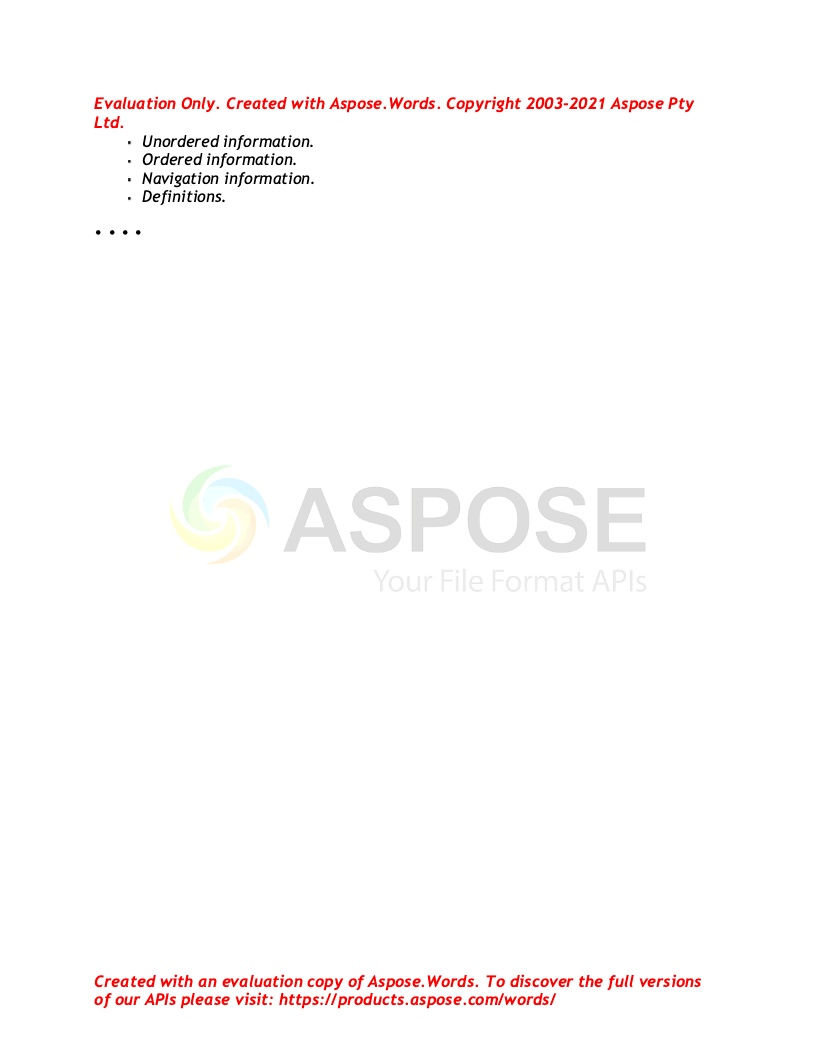
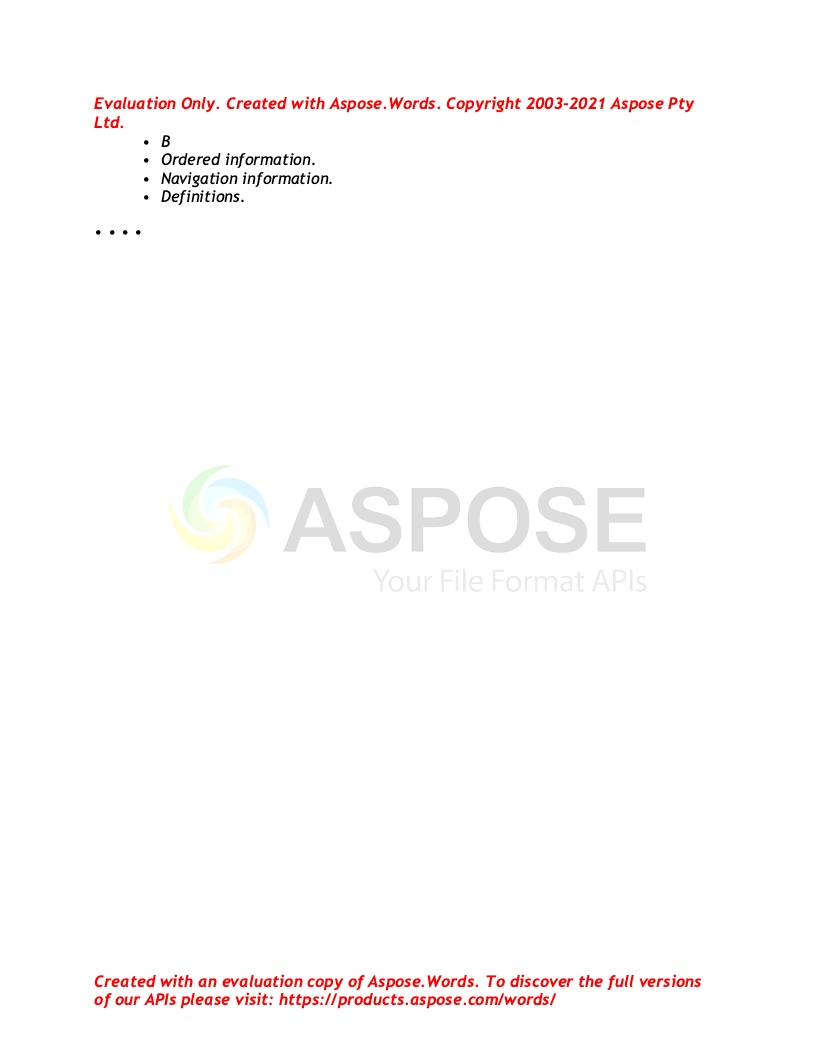
Use CSS entity for bullet - BB

Changed region(s): [[0.1532, 0.125, 0.3983, 0.1875]]

diff --git a/output/output.html b/output/output.html
@@ -1,1 +1,1 @@
-<html><head><meta http-equiv="Content-Type" content="text/html; charset=utf-8" /><meta http-equiv="Content-Style-Type" content="text/css" /><meta name="generator" content="Aspose.Words for .NET 21.2.0" /><title></title></head><body style="font-family:'Trebuchet MS'; font-size:12pt; font-style:italic"><div><div style="-aw-headerfooter-type:header-primary; clear:both"><p style="margin-top:0pt; margin-bottom:0pt"><span style="height:0pt; display:block; position:absolute; z-index:-65536"><img src="output.001.png" width="628" height="341" alt="" style="margin-top:232.8pt; -aw-left-pos:0pt; -aw-rel-hpos:margin; -aw-rel-vpos:margin; -aw-top-pos:0pt; -aw-wrap-type:none; position:absolute" /></span><img src="output.002.png" width="627" height="341" alt="" style="margin-left:0pt; -aw-left-pos:0pt; -aw-rel-hpos:margin; -aw-rel-vpos:margin; -aw-top-pos:0pt; -aw-wrap-type:none; position:absolute; z-index:0" /><span style="-aw-import:ignore">&#xa0;</span></p></div><p style="margin-top:0pt; margin-bottom:0pt"><span style="font-weight:bold; color:#ff0000">Evaluation Only. Created with Aspose.Words. Copyright 2003-2021 Aspose Pty Ltd.</span></p><ul style="margin:0pt; padding-left:0pt; list-style-image:url('output.003.png')"><li style="margin-left:36pt; padding-left:0pt; font-family:serif; font-size:6pt; font-style:normal; -aw-font-family:'Symbol'; -aw-font-weight:normal; -aw-number-format:''"><span style="font-family:'Trebuchet MS'; font-size:12pt; font-style:italic">Unordered information.</span></li><li style="margin-left:36pt; padding-left:0pt; font-family:serif; font-size:6pt; font-style:normal; -aw-font-family:'Symbol'; -aw-font-weight:normal; -aw-number-format:''"><span style="font-family:'Trebuchet MS'; font-size:12pt; font-style:italic">Ordered information. </span></li><li style="margin-left:36pt; padding-left:0pt; font-family:serif; font-size:6pt; font-style:normal; -aw-font-family:'Symbol'; -aw-font-weight:normal; -aw-number-format:''"><span style="font-family:'Trebuchet MS'; font-size:12pt; font-style:italic">Navigation information. </span></li><li style="margin-left:36pt; margin-bottom:12pt; padding-left:0pt; font-family:serif; font-size:6pt; font-style:normal; -aw-font-family:'Symbol'; -aw-font-weight:normal; -aw-number-format:''"><span style="font-family:'Trebuchet MS'; font-size:12pt; font-style:italic">Definitions. </span></li></ul><p style="margin-top:12pt; margin-bottom:12pt"><span>• • • •</span></p><div style="-aw-headerfooter-type:footer-primary; clear:both"><p style="margin-top:0pt; margin-bottom:0pt"><span style="font-weight:bold; color:#ff0000">Created with an evaluation copy of Aspose.Words. To discover the full versions of our APIs please visit: https://products.aspose.com/words/</span></p></div></div></body></html>
+<html><head><meta http-equiv="Content-Type" content="text/html; charset=utf-8" /><meta http-equiv="Content-Style-Type" content="text/css" /><meta name="generator" content="Aspose.Words for .NET 21.2.0" /><title></title></head><body style="font-family:'Trebuchet MS'; font-size:12pt; font-style:italic"><div><div style="-aw-headerfooter-type:header-primary; clear:both"><p style="margin-top:0pt; margin-bottom:0pt"><span style="height:0pt; display:block; position:absolute; z-index:-65536"><img src="output.001.png" width="628" height="341" alt="" style="margin-top:232.8pt; -aw-left-pos:0pt; -aw-rel-hpos:margin; -aw-rel-vpos:margin; -aw-top-pos:0pt; -aw-wrap-type:none; position:absolute" /></span><img src="output.002.png" width="627" height="341" alt="" style="margin-left:0pt; -aw-left-pos:0pt; -aw-rel-hpos:margin; -aw-rel-vpos:margin; -aw-top-pos:0pt; -aw-wrap-type:none; position:absolute; z-index:0" /><span style="-aw-import:ignore">&#xa0;</span></p></div><p style="margin-top:0pt; margin-bottom:0pt"><span style="font-weight:bold; color:#ff0000">Evaluation Only. Created with Aspose.Words. Copyright 2003-2021 Aspose Pty Ltd.</span></p><p style="margin-top:0pt; margin-left:36pt; margin-bottom:0pt; -aw-import:list-item; -aw-list-level-number:0; -aw-list-number-format:'•'; -aw-list-number-styles:'bullet'; -aw-list-padding-sml:7.51pt"><span style="-aw-import:ignore"><span>•</span><span style="font:7pt 'Times New Roman'; -aw-import:spaces">&#xa0;&#xa0;&#xa0;&#xa0; </span></span><span>B</span></p><p style="margin-top:0pt; margin-left:36pt; margin-bottom:0pt; -aw-import:list-item; -aw-list-level-number:0; -aw-list-number-format:'•'; -aw-list-number-styles:'bullet'; -aw-list-padding-sml:7.51pt"><span style="-aw-import:ignore"><span>•</span><span style="font:7pt 'Times New Roman'; -aw-import:spaces">&#xa0;&#xa0;&#xa0;&#xa0; </span></span><span>Ordered information. </span></p><p style="margin-top:0pt; margin-left:36pt; margin-bottom:0pt; -aw-import:list-item; -aw-list-level-number:0; -aw-list-number-format:'•'; -aw-list-number-styles:'bullet'; -aw-list-padding-sml:7.51pt"><span style="-aw-import:ignore"><span>•</span><span style="font:7pt 'Times New Roman'; -aw-import:spaces">&#xa0;&#xa0;&#xa0;&#xa0; </span></span><span>Navigation information. </span></p><p style="margin-top:0pt; margin-left:36pt; margin-bottom:12pt; -aw-import:list-item; -aw-list-level-number:0; -aw-list-number-format:'•'; -aw-list-number-styles:'bullet'; -aw-list-padding-sml:7.51pt"><span style="-aw-import:ignore"><span>•</span><span style="font:7pt 'Times New Roman'; -aw-import:spaces">&#xa0;&#xa0;&#xa0;&#xa0; </span></span><span>Definitions. </span></p><p style="margin-top:12pt; margin-bottom:12pt"><span>• • • •</span></p><div style="-aw-headerfooter-type:footer-primary; clear:both"><p style="margin-top:0pt; margin-bottom:0pt"><span style="font-weight:bold; color:#ff0000">Created with an evaluation copy of Aspose.Words. To discover the full versions of our APIs please visit: https://products.aspose.com/words/</span></p></div></div></body></html>

diff --git a/input.html b/input.html
@@ -11,15 +11,19 @@
         }
     </style>
     <style>
-        li {
-            list-style-image: url("bullet.svg");
+        ul {
+            list-style-type: none;
+        }
+        li:before {
+            content: '\2022';
+            padding-right: 10px;
         }
     </style>
 </head>
 
 <body>
     <ul>
-        <li>Unordered information.</li>
+        <li>B</li>
         <li>Ordered information. </li>
         <li>Navigation information. </li>
         <li>Definitions. </li>
